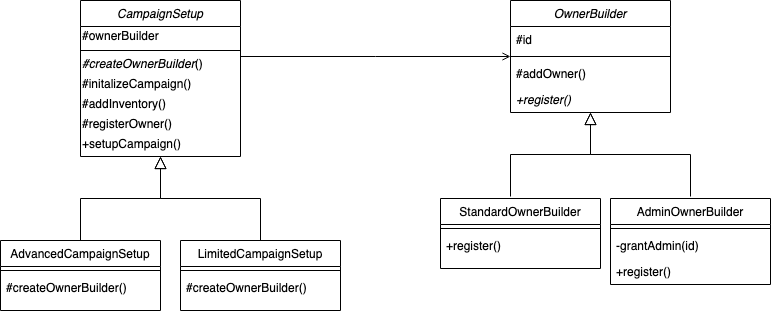
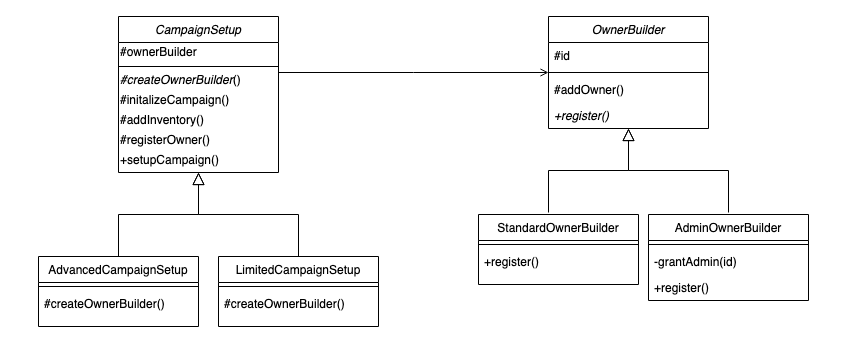
week 26 code example reformating for shorter line length, to fit in low resolution without overflow

diff --git a/practice-weeks/week26-practice.html b/practice-weeks/week26-practice.html
@@ -92,7 +92,7 @@
 
     <section id="factory">
       <h2>Factory Method Pattern</h2>
-      <p class="plaintext">The factory method pattern provides a way for creating objects in a subclass, where subclasses decide the types of objects that will be created. Instead of creating objects in the high-level code via 'new' in the high-level constructor, etc., it moves creation to an inherited or abstract factory method instead, which hides the 'new' construction logic, and returns an object of an abstract type. Implementations of the factory method in subclasses can now return any type of concrete object implemented from the abstract object.
+      <p class="plaintext">The factory method pattern provides a way for decoupling object creation, where subclasses determine the types of objects that will be created. Instead of creating objects in the high-level code via 'new,' the pattern delegates creation to subclasses through an inherited interface or abstract factory method instead. This hides the 'new' construction logic from the high-level class. Implementations of the factory method in subclasses can now return any type of concrete object implemented from the abstraction.
       <br><br>
       In the below example, note how the high-level CampaignSetup function setupCampaign() does not care what type of OwnerBuilder it is calling register() on. Note also how the desired type of OwnerBuilder class is not determined until runtime in test.php, showing decoupling of the type of OwnerBuilder from CampaignSetup, and allowing great flexibility.</p>
       <br>
@@ -193,7 +193,8 @@ class AdminOwnerBuilder extends OwnerBuilder{
     $id = readline("Enter owner id to add:  ");
     $this->addOwner($id);
 
-    if(readline("Grant owner admin rights? Please enter true or false:  ") == 'true')
+    if(readline("Grant owner admin rights?
+                 Please enter true or false:  ") == 'true')
       $this->grantAdmin($id);
   }
 
@@ -224,7 +225,8 @@ require_once 'LimitedCampaignSetup.php';
 $campaignSetup;
 
 echo "Starting campaign setup\n";
-$campType = readline("Setup limited or advanced campaign? Please enter standard or advanced:  ");
+$campType = readline("Setup limited or advanced campaign?
+                      Please enter standard or advanced:  ");
 
 switch($campType){
   case 'standard':
